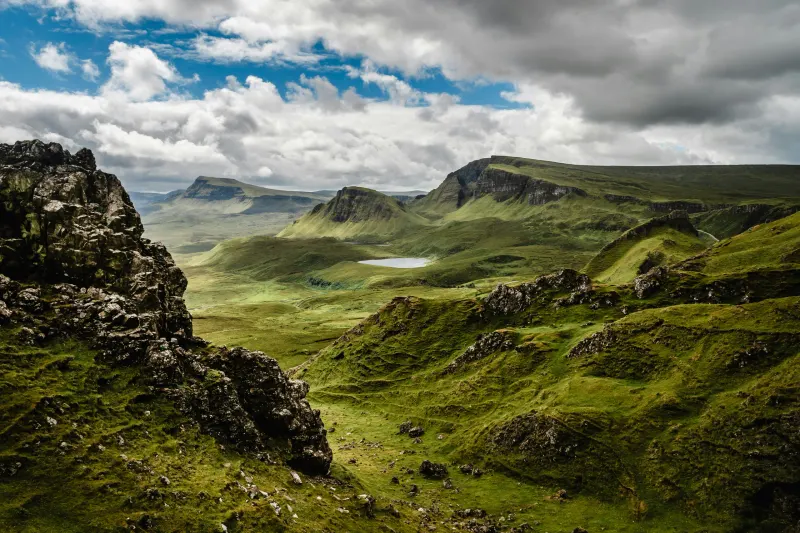
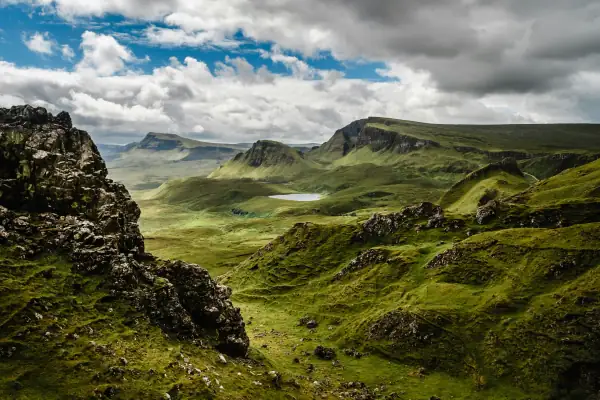
perf: hero 37KB on mobile, LQIP placeholder, cache headers, fix forced reflow
- Hero mobile: 86KB -> 37KB (600px, q65)
- Inline 108-byte blurred placeholder for instant hero paint
- _headers: 1yr cache for images, 24h for JS
- Parallax/nav scroll batched into single rAF (fixes forced reflow)
- Passive scroll listener

diff --git a/scotland.html b/scotland.html
@@ -138,7 +138,7 @@ img{max-width:100%;display:block}
 
 /* ========== 1. HERO ========== */
 .hero{position:relative;display:flex;align-items:flex-start;justify-content:center;overflow:hidden;width:100%;aspect-ratio:2560/2300;min-height:100vh;padding-top:40vh}
-.hero-bg{position:absolute;inset:0;will-change:transform}
[1 lines of base64/hex data omitted]
 .hero-bg img{width:100%;height:100%;object-fit:cover;object-position:center;aspect-ratio:2560/1707}
 .hero-overlay{position:absolute;inset:0;z-index:2;background:
   linear-gradient(180deg,rgba(15,22,40,.3) 0%,rgba(15,22,40,.1) 30%,rgba(15,22,40,.2) 60%,rgba(15,22,40,.3) 100%),
@@ -735,25 +735,22 @@ img{max-width:100%;display:block}
   },{threshold:0.08,rootMargin:'0px 0px -30px 0px'});
   document.querySelectorAll('.reveal,.reveal-left,.reveal-right,.reveal-scale,.floater').forEach(el=>obs.observe(el));
 
-  // ---- Parallax ----
+  // ---- Parallax + Nav (batched to avoid forced reflow) ----
   const pxEls = document.querySelectorAll('[data-parallax]');
+  const nav = document.getElementById('nav');
   let ticking = false;
   window.addEventListener('scroll',()=>{
     if(!ticking){requestAnimationFrame(()=>{
       const sy = window.scrollY;
+      // Batch all reads first, then writes
+      nav.classList.toggle('scrolled', sy > 50);
       pxEls.forEach(el=>{
         const r = parseFloat(el.dataset.parallax)||0.3;
-        el.style.transform = el.style.transform.replace(/translateY\([^)]*\)/,'') + ` translateY(${sy * r * 0.5}px)`;
+        el.style.transform = `translateY(${sy * r * 0.5}px)`;
       });
       ticking=false;
     });ticking=true}
-  });
-
-  // ---- Nav scroll effect ----
-  const nav = document.getElementById('nav');
-  window.addEventListener('scroll',()=>{
-    nav.classList.toggle('scrolled', window.scrollY > 50);
-  });
+  },{passive:true});
 
   // ---- Castle Grid ----
   const scotCastles = typeof CASTLES!=='undefined' ? CASTLES : [];
